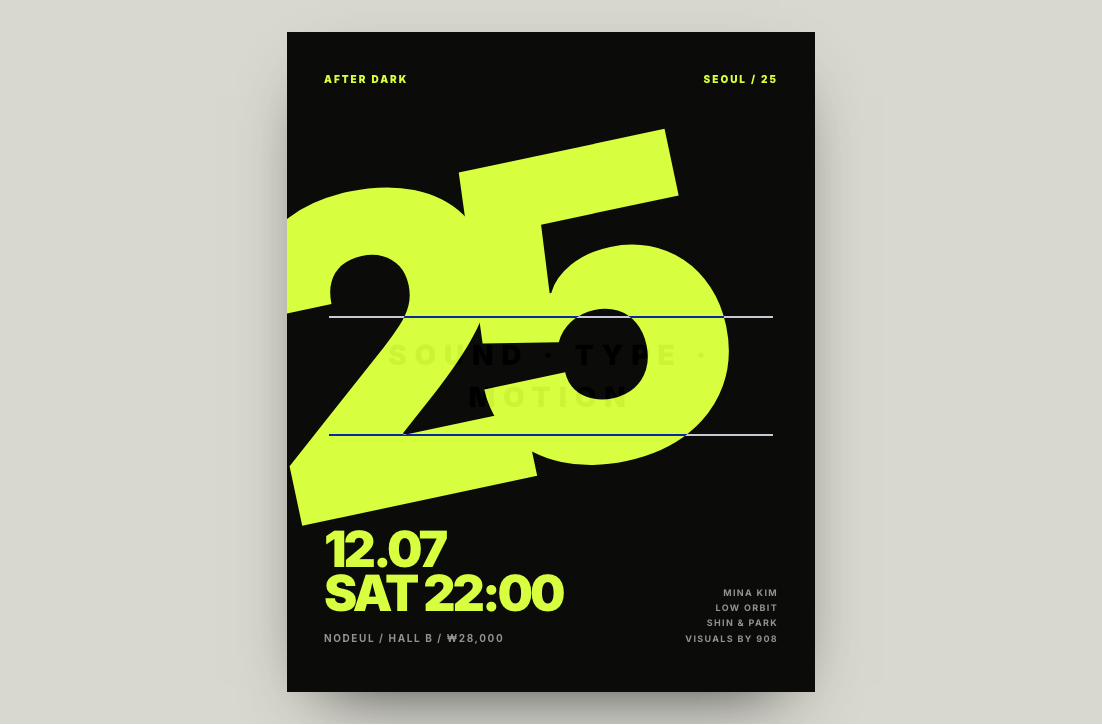
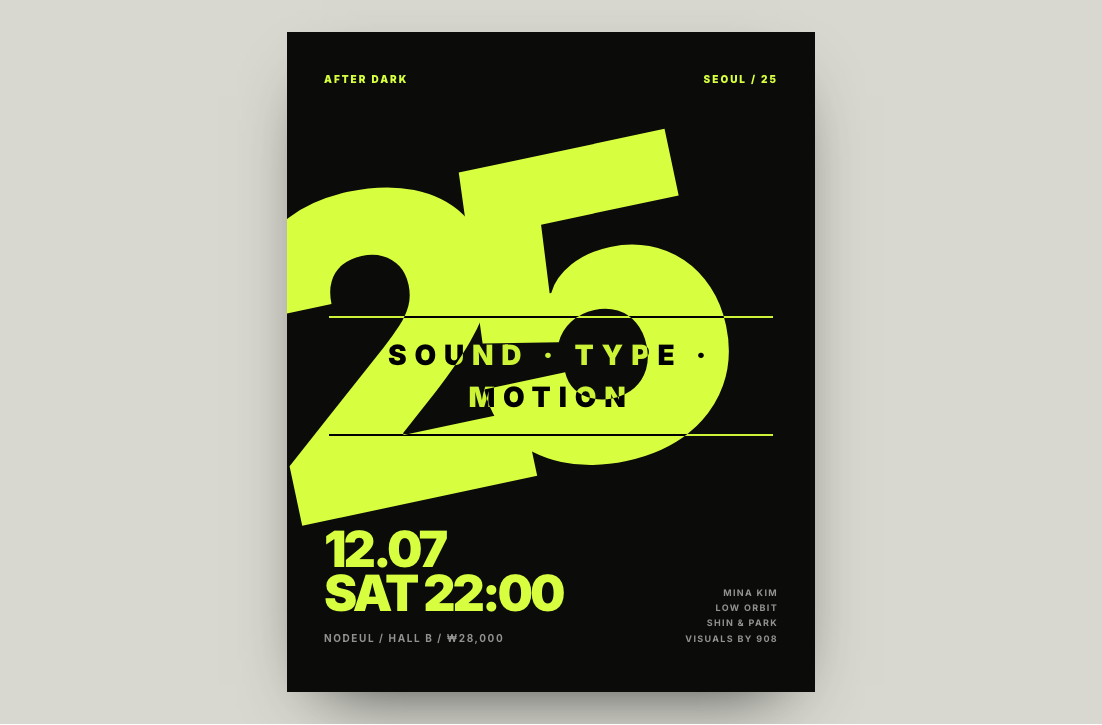
fix(showcase): the night poster's band can be read, and the poster is 440px tall on a phone
The band "sound · type · motion" was drawn by difference in the poster's
own background colour, so it painted black on near-black (1.07:1) and lime
on lime (1.11:1) at every width. Its text is now the poster's lime, which
the blend turns to lime on the background (15.35:1) and black on the
numerals (18.27:1).

The band's rules were named lime and painted the site's global border
colour, because an unlayered rule in globals.css beats the utility. This
one element marks its colour important.

Under 640px the poster had a fixed height and lost its shape (300x658 at
390 wide). Its width now sets its size, with a 440px floor so the date
stays clear of the numerals. At 1440x900 the box is 528x660 as before.

The stored picture of the poster that the home shows is captured again
the same way.

Claude-Session: https://claude.ai/code/session_01PYSbcVbJ1D67PGxkKwHw35

Changed region(s): [[0.3394, 0.4552, 0.6171, 0.5766]]

diff --git a/demo-pricing/app/showcase/_renderers/artifact-proofs.tsx b/demo-pricing/app/showcase/_renderers/artifact-proofs.tsx
@@ -284,12 +284,12 @@ function ReportStat({ value, label }: { value: string; label: string }) {
 export function NightPoster(_: ArtifactProps) {
   return (
     <div className="flex min-h-[720px] items-center justify-center bg-[#D8D8D0] p-5 sm:p-8">
-      <article className="relative aspect-[4/5] h-[min(78vh,660px)] max-w-full overflow-hidden bg-[#0B0C0A] text-[#D7FF3F] shadow-[0_28px_70px_-35px_rgba(0,0,0,0.8)]">
+      <article className="relative aspect-[4/5] w-[min(100%,calc(min(78vh,660px)*0.8))] max-sm:min-h-[440px] overflow-hidden bg-[#0B0C0A] text-[#D7FF3F] shadow-[0_28px_70px_-35px_rgba(0,0,0,0.8)]">
         <div className="absolute inset-x-[7%] top-[6%] z-20 flex justify-between text-[10px] font-black uppercase tracking-[0.2em]">
           <span>After Dark</span><span>Seoul / 25</span>
         </div>
         <div className="absolute left-[-8%] top-[13%] rotate-[-12deg] text-[clamp(230px,38vw,430px)] font-black leading-none tracking-[-0.15em] text-[#D7FF3F]">25</div>
-        <div className="absolute left-[8%] top-[43%] z-10 w-[84%] border-y-2 border-[#D7FF3F] py-[3%] text-center text-[clamp(15px,2.3vw,28px)] font-black uppercase tracking-[0.28em] text-[#0B0C0A] mix-blend-difference">
+        <div className="absolute left-[8%] top-[43%] z-10 w-[84%] border-y-2 border-[#D7FF3F]! py-[3%] text-center text-[clamp(15px,2.3vw,28px)] font-black uppercase tracking-[0.28em] text-[#D7FF3F] mix-blend-difference">
           sound · type · motion
         </div>
         <div className="absolute inset-x-[7%] bottom-[7%] z-20 grid grid-cols-[1fr_auto] items-end gap-6">
